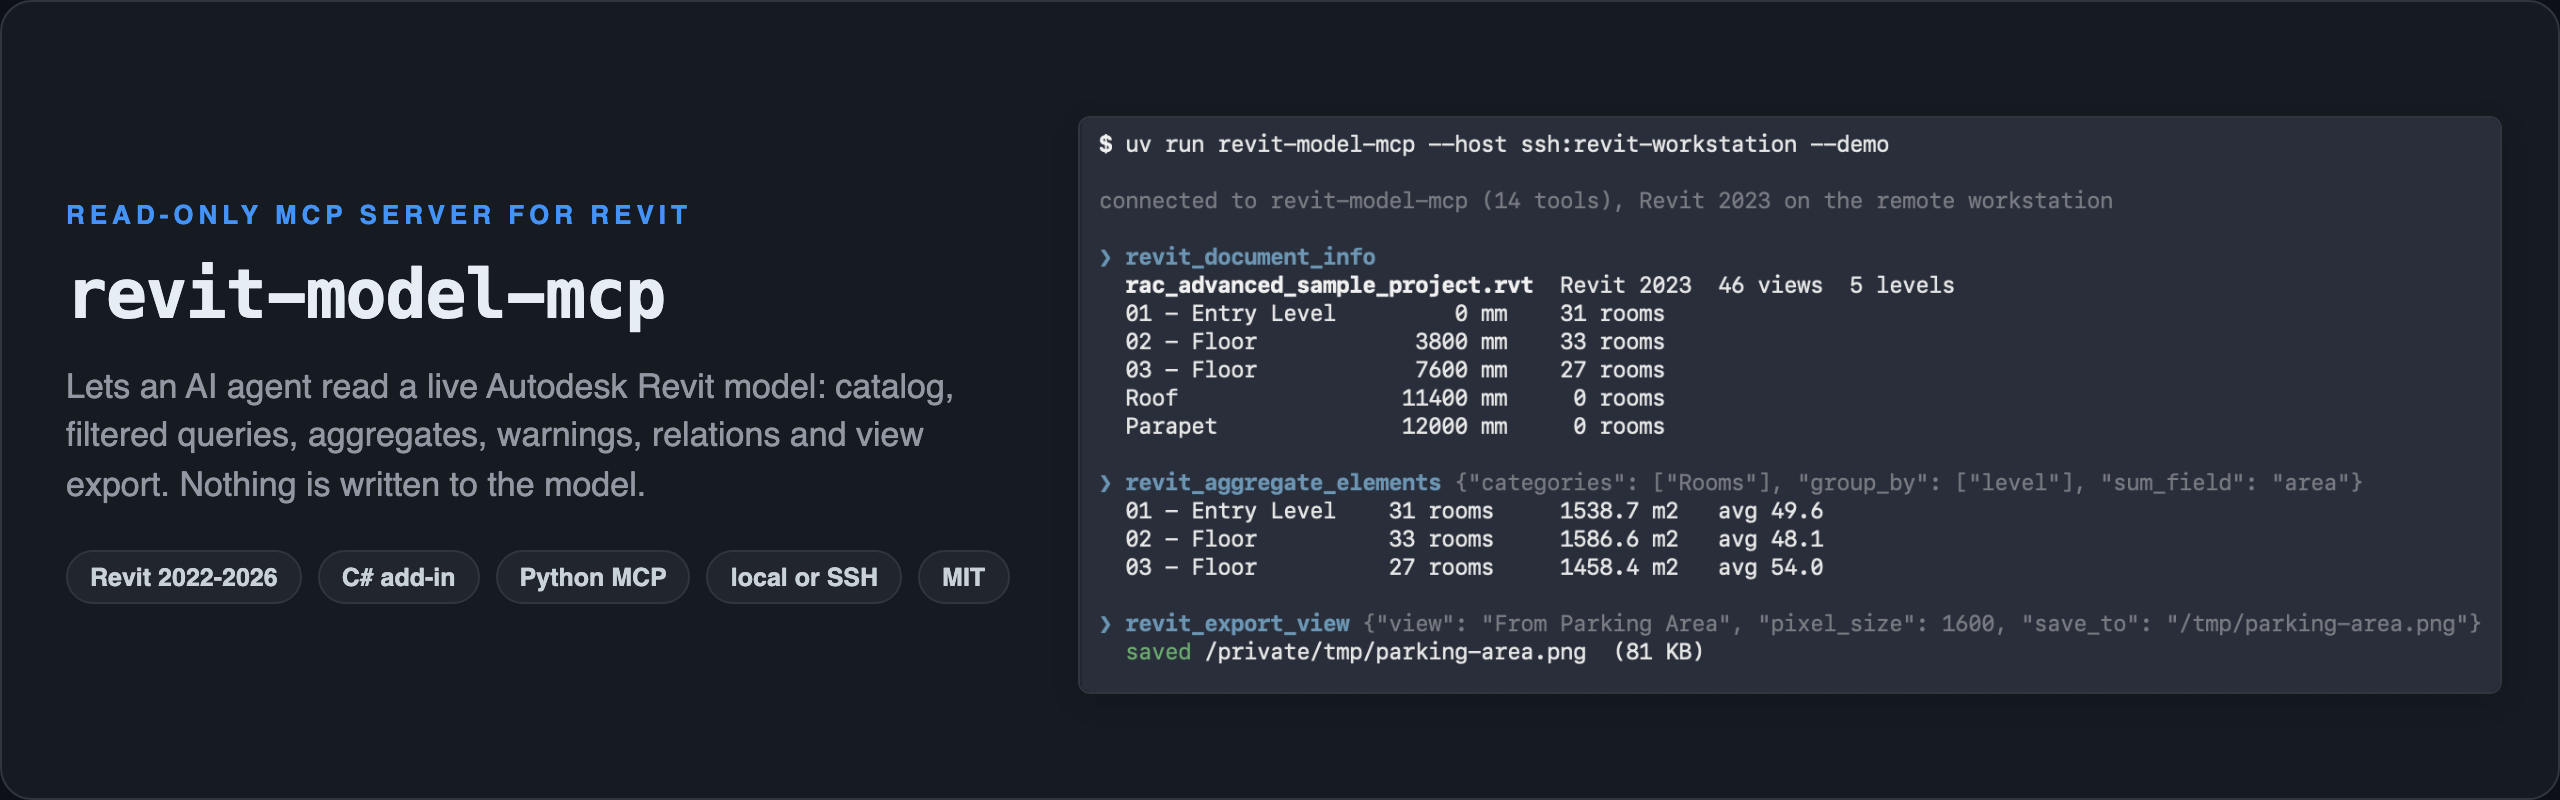
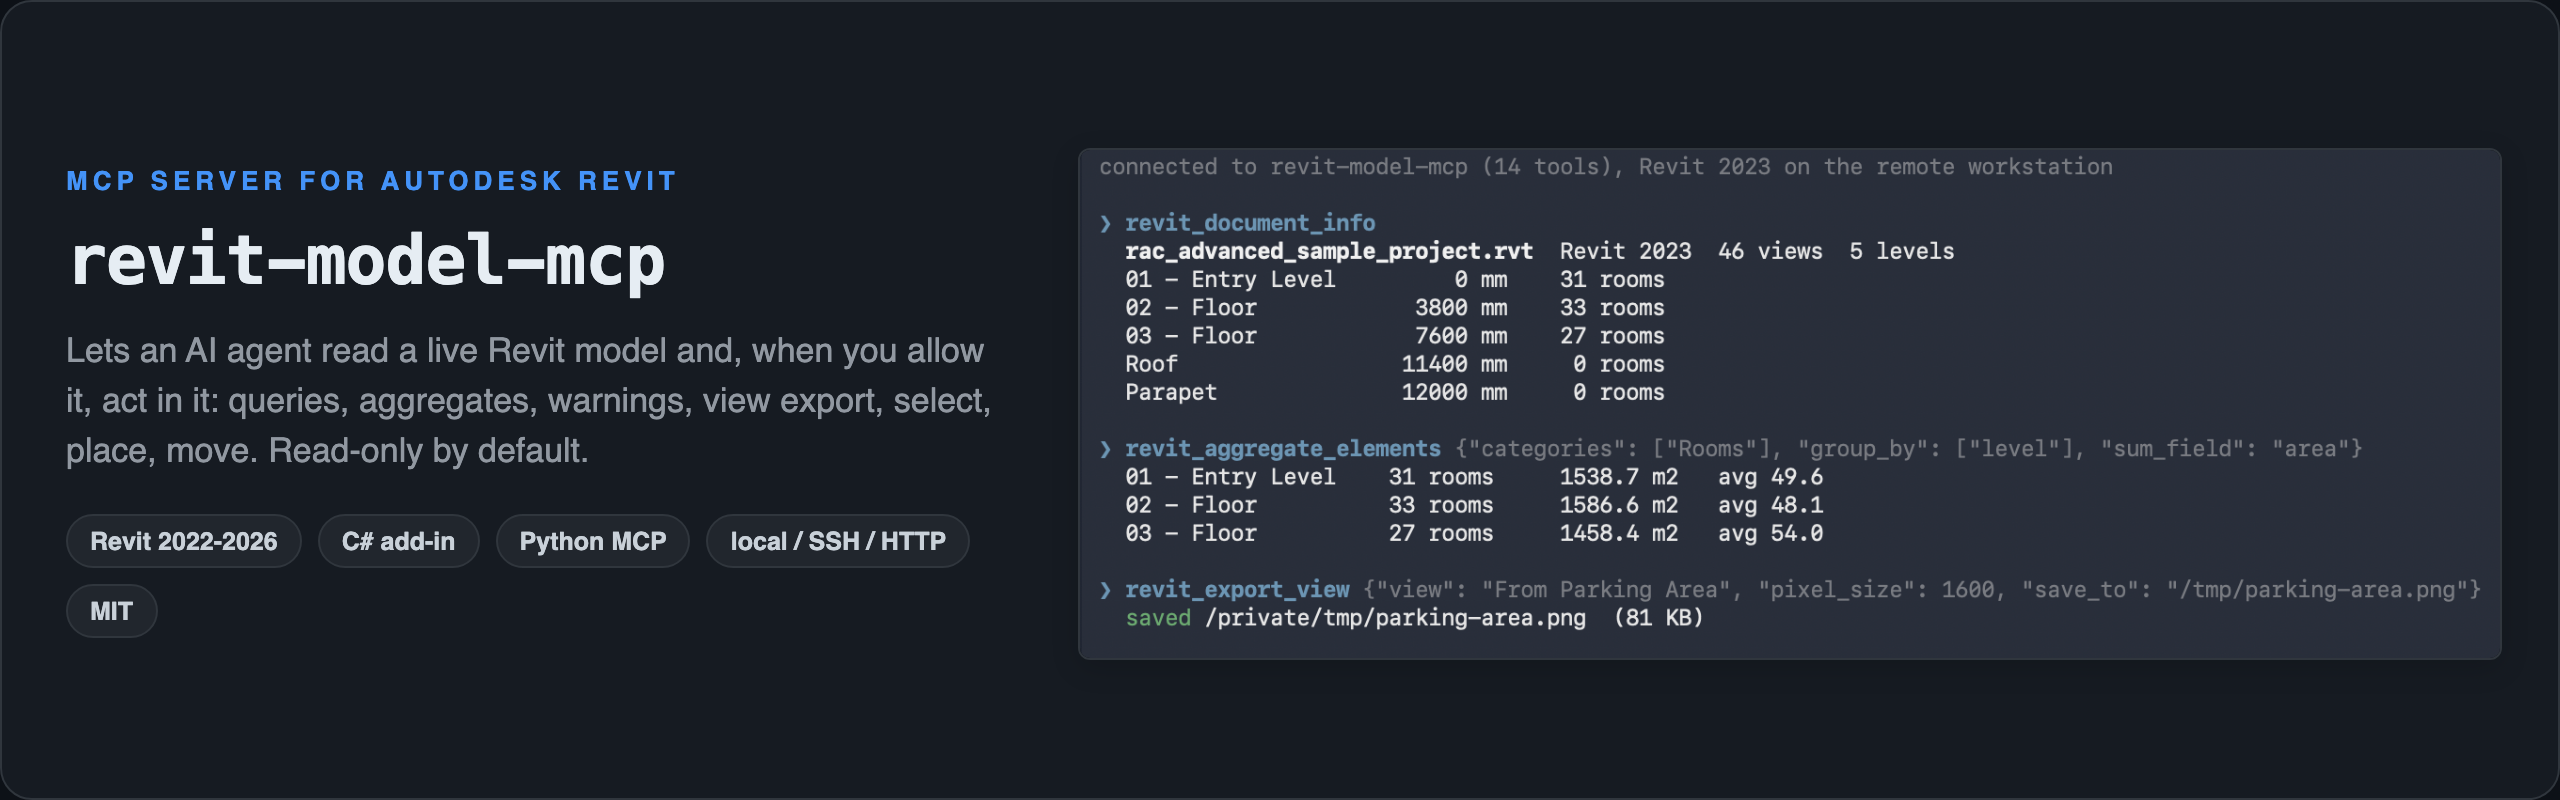
docs: header image shows the session only, copy mentions opt-in actions

diff --git a/README.md b/README.md
@@ -32,9 +32,7 @@ What happens in the recording, in order:
 3. "Isolate that room, place a Chair-Breuer at its centre and move it 800 mm along X." `revit_isolate`, then `revit_place_family` at the room's `roomCenterMm`, then `revit_move`. Each mutation is its own Revit transaction.
 4. "Reset the view and delete that chair." The temporary isolate is cleared and the chair is deleted.
 
-The header shows a read-only terminal demo against Revit 2023 over SSH.
-Its `--demo` wrapper is not shipped in this package; use [Quick start](#quick-start) for supported commands.
-The export below is the PNG saved by `revit_export_view`:
+The header image is the same server driven from a small terminal client against Revit 2023 over SSH. The export below is the PNG saved by `revit_export_view`:
 
 <picture>
   <source media="(prefers-color-scheme: dark)" srcset="docs/screenshots/revit-model-mcp_export-view_dark.png">
